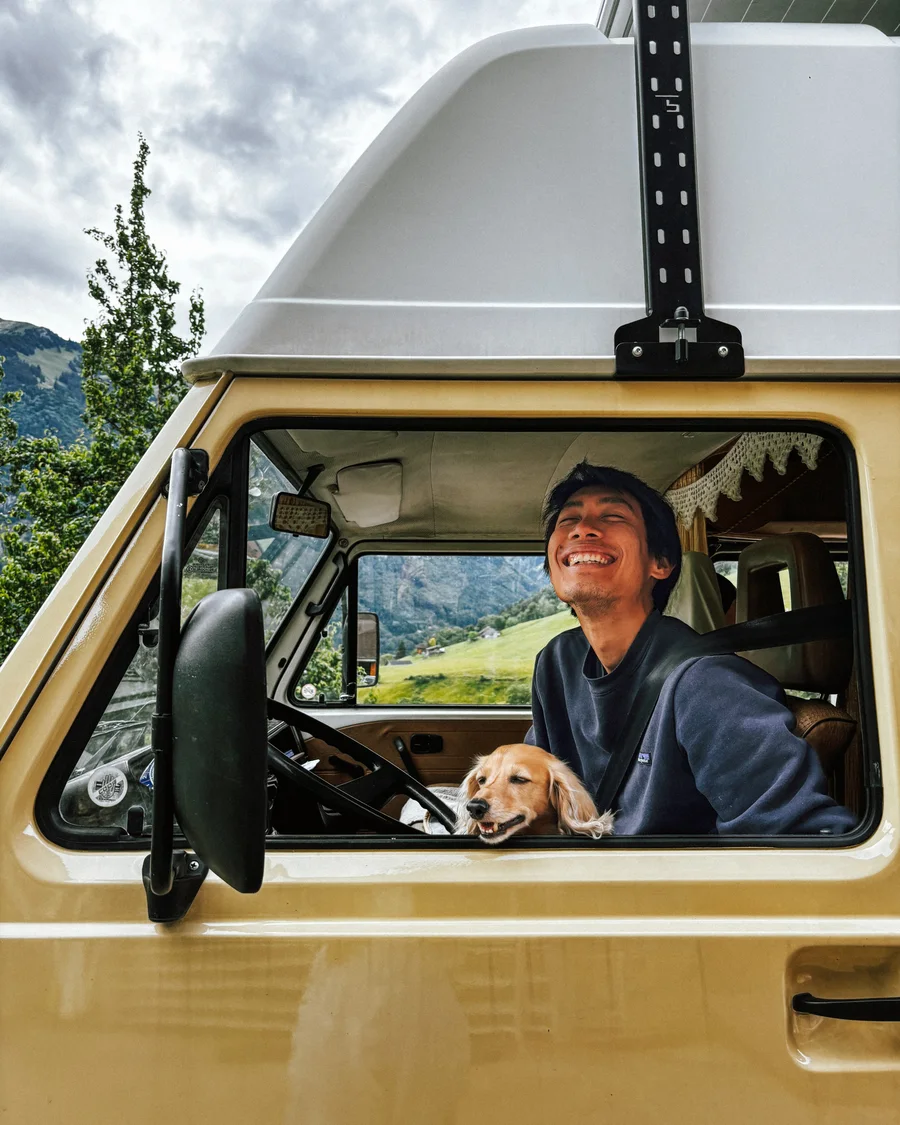
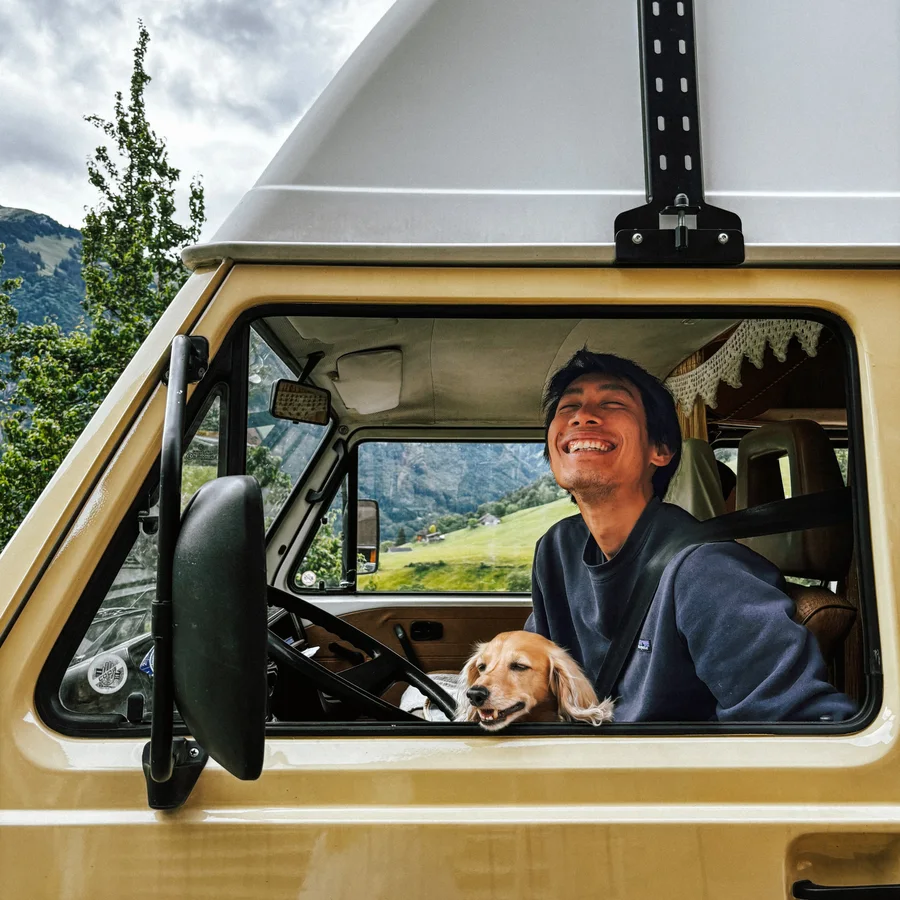
Show Humbär in full and shorten the pair beneath him
The welcome photo was cut off at the wheels and at our feet — it now
runs from the mountains down past the tyres (1154x1240). To keep the
column from growing, the two photos below drop from 4:5 to square,
20% less tall.

diff --git a/src/app/page.tsx b/src/app/page.tsx
@@ -296,7 +296,7 @@ export default function Home() {
                 src="/images/home/welcome-van.webp"
                 alt="Evelyne and Frank with coffee beside Humbär, below the Swiss alps"
                 width={1154}
-                height={780}
+                height={1240}
                 sizes="(max-width: 1024px) 92vw, 46vw"
                 className="h-full w-full object-cover"
               />
@@ -306,7 +306,7 @@ export default function Home() {
                 src="/images/home/welcome-frank.webp"
                 alt="Frank laughing in the driver's window with a golden retriever"
                 width={900}
-                height={1125}
+                height={900}
                 sizes="(max-width: 1024px) 45vw, 23vw"
                 className="h-full w-full object-cover"
               />
@@ -316,7 +316,7 @@ export default function Home() {
                 src="/images/home/welcome-table.webp"
                 alt="Baklava, granola bowls and two coffees on a sunlit wooden table"
                 width={900}
-                height={1125}
+                height={900}
                 sizes="(max-width: 1024px) 45vw, 23vw"
                 className="h-full w-full object-cover"
               />
